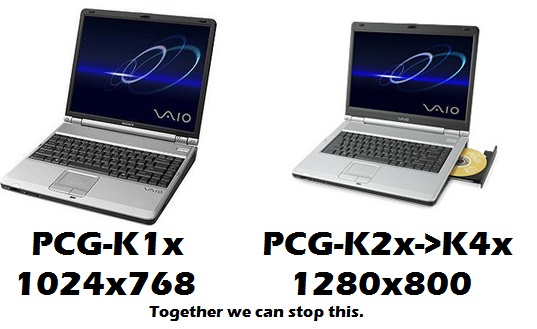
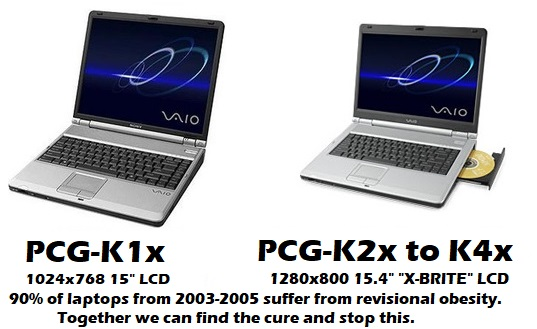
kseries update

diff --git a/docs/pcgk.html b/docs/pcgk.html
@@ -16,7 +16,7 @@
 <h5 id="randomWord"></h5>
 </div>
 <script>
-const myList = ["americans don't get dGPUs lol xddd", "allergic to high uptimes", "portable jet engine!", "infineon advertised their ram", "i spilled water on one as a kid"];
+const myList = ["americans don't get dGPUs lol xddd", "heater but weaker", "portable jet engine!", "infineon advertised their ram", "i spilled water on one as a kid"];
 
 randomizeFunction()
 
@@ -35,37 +35,43 @@ function randomizeFunction() {
 
 <div id="content">
 <h2 style="font-size:300%">Sony VAIO PCG-Kxx Owner's Guide</h2>
-<p class="intro"><i>Originally written February 15, 2022. Revised August 23, 2022.</i></p>
+<h2>An amazing screen but a not-so-amazing execution of hardware design.</h2>
+<p class="intro"><i>Originally written February 15, 2022. Revised September 13, 2023.</i></p>
 <p class="intro"></p>
       <h2>Overview of the hardware</h2>
-      <p>The Sony VAIO PCG-K series laptops (K1x, K2x, K3x, K4x, etc etc) are a series of 15-inch ""desktop replacement"" laptops with Intel Pentium 4 processors (some use the """"MOBILE"""" Pentium 4 chips from 2004), ATI Radeon IGP 345M graphics (select non-US models have been seen with Radeon 9200 cards), 266MHz DDR SDRAM, and Windows XP Home Edition with Service Pack 1a or Service Pack 2. These weren't exactly popular as sony was known for lightweight "ultra-portable" laptops, but Dell, HP, and IBM were way ahead of the market. However, they provided good portability (in some aspects...) and were fairly quick for the time, despite later falling behind the Athlon 64 mobile chips.</p>
-	  <p>There are 4 different models of these laptops. The PCG-K1x series has a 4:3 15-inch display running at 1024x768 while the K2x-K4x laptops have a 16:10 15-inch display running at 1280x800. The PCG-K3x series added improved cooling for Prescott CPUs, and the PCG-K4x was more of a refinement. Yes, there is not much variety, but there are definitely some notable internal differences.</p>
-	  <p><img alt="Some say it became American."
-	  title="Some say it became American."
+      <p>The Sony VAIO PCG-K series laptops (K1x, K2x, K3x, K4x, etc etc) are a series of entry-level (yes, they were literally advertised as such) 15-inch "Desktop Replacement" laptops with Intel Pentium 4 processors (some use the "Mobile" Pentium 4 chips, not to be confused with the older Pentium 4-M), ATI Radeon IGP 345M graphics (select models have a populated dGPU which is the ATI Mobility Radeon 9200, unfortunately those were only sold in Europe and Australia for whatever reason), 266MHz DDR SDRAM, and were bundled Windows XP Home Edition with Service Pack 1a or Service Pack 2. Hard Drive capacities ranged from 40GB to 80GB, and can be upgraded to larger drives, even those above 128GB. These weren't exactly popular as sony was known for lightweight "ultra-portable" laptops, but they were popular with those who wanted a new laptop to replace, say, their aging Dell Inspiron 7000 or Sony VAIO PCG-F to name a couple of older examples. The issue, however, was that Sony opted for the aging RS200M platform for these laptops which made them look rather pathetic in comparison to offerings from HP, IBM, Acer, and Dell to name a few. They were about as portable as their offerings but were inefficient and felt slow compared to a system like the Pavilion zv5000/zx5000 which had a more up-to-date chipset and supported hyperthreading. More on the issues with the K series later, but now you've got an idea of what these were like.</p>
+	  <p>There are 4 different models of these laptops. The PCG-K1x series has a 4:3 15-inch display running at 1024x768 while the K2x-K4x laptops have a 16:10 15-inch "X-BRITE" display running at 1280x800 (X-BRITE was sony's display technology that made pictures look more vibrant and color-accurate compared to leading LCDs on other consumer laptops, so much so they made a screensaver about it). The PCG-K3x series added improved cooling for Prescott CPUs (which honestly was a bad idea considering the fact the RS200M poorly handles prescott), and the PCG-K4x was more of a refinement. Yes, there is not much variety, but there are definitely some notable internal differences especially comparing the K1-K2 to the K3-K4.</p>
+	  <p><img alt="90% of laptops designed in the early-mid 2000s suffer from obesity."
+	  title="90% of laptops designed in the early-mid 2000s suffer from obesity."
 	  src="pictures/compare-kseries.jpg"></p>
-	  <p>These laptops were part of the great Pentium 4 Mobile Computing fad of the early 2000s, and thus it was more of a one-off system. Most of the Northwood models were reliable, but later models were prone to failure, despite Sony's brilliant japanese engineering at the time. Most of this was Intel's stupid fault with their Prescott chips aiming for serious scaling. Unfortunately, that ended in 3.8GHz tops.</p>
-	  <h2>Flaws of the system</h2>
-      <p>Like with any Pentium 4 laptop from the mid-2000s, you WILL run into issues down the road. The PCG-K series laptops were somewhat more basic than competing offers as it had a Radeon IGP chip. However, pretty much all Pentium 4 laptops (and even desktops) will run into VRM failure if a poor design is implemented. This is seen commonly if you have a PCG-K3x or K4x laptop; they all use Prescott CPUs with the exception of the PCG-K33. I had a PCG-K37 which randomly shut off, and sometimes it wouldn't even have the necessary voltage to detect the hard drive. Those processors suck up so much energy!</p>
-	  <p>Honestly, the PCG-K series laptops don't exactly suffer from poor design. Rather, they suffer from poor execution. These laptops just had to use the <i>wrong</i> chipset. Competing laptops like the Inspiron 5150/5160 used an Intel Springdale chipset, while these used a rather outdated and inadequate ATI RS200M chipset. You can install 2GB of RAM in a 5150, but not in a PCG-K laptop. You can enable HT on a 5150, but not on a PCG-K laptop. Only the K3x and K4x laptops have a CPU with HT, but the computer itself will not allow for HT to work. The IGP 345M and RS200M do not support HT and are pretty much remnants of a Pentium 4-M chipset from 2002. I will admit, systems with the ATI chipset are known to be more stable, but they have some serious limitations. Sony used the wrong chipset at the wrong time for this laptop. But that might just be why it's more reliable than most other P4 laptops, <i>especially the Inspiron 5150.</i></p>
-	  <p>These laptops also suffer from Sony's ignorance with updating their drivers and BIOS images. Luckily, the PCG-K47 BIOS has been known to work, and can be found on my Files page under R0108X3. This fixes many issues which were BIOS-related, especially the issue with "Operating system not found" on select PCG-K3x models.</p>
-	  <h2>BIOS updates</h2>
-	  <p>I cannot stress but recommend you to install <b>R0108X3</b> from my website. It works on the K-series VAIOs with the IGP 345M chipset, so pretty much every one of them. It irons out the many software issues these have, especially if you end up with the "Operating system not found" error on select models.</p>
+	  <h2>The oddities of being an "entry-level" desktop replacement</h2>
+	  <p>These laptops were part of the great Pentium 4 Mobile Computing fad of the early 2000s, and thus it was more of a one-off system even though it lasted well into 2005 with the K4x revision. During that time, manufacturers and engineers around would just throw stuff at the wall and used what stuck. These laptops were unfortunately hindered by the aforementioned ATi RS200M chipset, which is especially seen in the PCG-K3x and K4x models. The chipset only supported CPUs with a 533MHz front side bus, the integrated graphics were hot garbage (IGP 340M, more specifically the 345M which is identical), there was no hyper-threading support, and the maximum RAM was only 1GB. These may not sound so bad especially considering this is a laptop from 2004, but when you look at other options, it becomes clear. The Dell Inspiron 1100, while the iGPU on that was no better, had the Intel 845GL chipset paired with DDR SDRAM and could happily support up to 2GB of RAM.</p>
+	  <p>The PCG-K series models were usually priced between $1,000 and $2,000 depending on the configuration. While I was unable to find all of the MSRPs, I can tell the PCG-K33 was originally priced at $1,350 according to an Amazon review from the time. Compared to something like the Pavilion zv5000, which started at $1,200 for the base model, this was not a great deal. The VAIO did have brand recognition on its sleeve, but unfortunately looking deeper into reviews for this machine, it becomes clear that there was a painful drop in quality. Some of that is attributed to the mentality of owning a desktop replacement as people were not exactly aware of the higher power usage of these machines and just treated them as if they were typical laptops with laptop CPUs... when they really weren't.</p>
+	  <p>If you look at more systems from the early 2000s using the Pentium 4 CPU, you will probably see how the PCG-K line is essentially just a budget desktop with laptop components duct-taped to it. Cheap $300-500 desktops from Dell and HP were about the same as this laptop in terms of their performance. With the 3 and 4 models, things REALLY got unbelievably stupid when Sony used Mobile P4HT (yes, the HT versions) processors in these machines that didn't even support HT whatsoever! This combined with the poor design of the Prescott microarchitecture led to high power consumption and premature failure. Sony using a P4HT in a system that doesn't even support HT is like throwing in a V8 into a Honda Pilot albeit (somehow) with 2 cylinders inactive. It's inefficient and a <i>terrible</i> way to utilize something that's more capable than the limits that are imposed upon it. What's even more ridiculous is that Sony and Quanta took the time to re-design the motherboard for the newer K models but used the EXACT SAME chipset. I understand the budget was probably not that high for that machine (though I will say it's built rather well for a laptop from 2004), but honestly to me that is a waste of R&D that should have been put towards making a redesigned motherboard that supports newer technologies.</p>
+	  <h2>Known flaws and observations</h2>
+      <p>Like with any Pentium 4 laptop from the early to mid 2000s, you WILL run into issues down the road. The PCG-K series laptops were somewhat more basic than competing offers as it had a (terribly outdated for 2004) Radeon IGP chip. However, pretty much all Pentium 4 laptops (and even desktops) will run into VRM failure if a poor design is implemented. This is seen commonly if you have a PCG-K3x or K4x laptop, but the CPUs that Sony LITERALLY USED BY DEFAULT in those machines are to blame for sure. Those processors suck up so much energy! I have also seen this on a PCG-K315Z motherboard I imported from the UK, which shut off under load. The fix? Use a Northwood CPU. Upon testing it with Windows Vista (yes, Vista, it was more than intensive enough to get the CPU at 100% on startup), it was perfectly stable. I call this symptom of random shutdowns "Prescott K-series Sudden Shutdown Syndrome" or for short, PKSSS. This is not caused by the battery/AC to DC board as I have observed along with other people who worked on these laptops, and is not caused with overheating if the problem persists after cleaning the fans out and changing the thermal paste (Prescotts have a soldered IHS so it definitely isn't the TIM used between the die and the IHS). I'm not exactly sure what the root cause of my so-called PKSSS is but it's likely the additional circuitry on newer K-series models that accomodates for the higher power requirements of the Prescott P4. Apparently, that still isn't enough so it's best to run a Northwood with this computer. This also happens after a while if you use a Prescott CPU on a K1x or K2x model (which I don't recommend because of the 75W TDP limit as per the schematics for MBX-114).</p>
+	  <p>Also, prescott bad. Really bad. Intel really thought a 31 stage instruction pipeline could provide higher performance but in reality it was slower clock-for-clock than Northwood and absolutely needed HT to show any improvements on some setups. SSE3 doesn't really provide improvements on a K series laptop either because you're already so limited by the IGP and the chipset to a point where it's not worth using newer software on that system.</p>
+	  <h3><b>Looks can be deceiving: "Gray Tantalums" are not what you think</b></h3>
+	  <p>These being Sony VAIOs, are unsurprisingly a pain in the ASS to repair when something goes wrong. Some K3x machines will outright stop detecting HDDs (R0108X3 seems to fix that though). I've also seen people alluding to the symptoms that I have determined with my PKSSS observation, and while I mentioned I have not found a root cause, it's possible that capacitors on these laptops could be replaced. A handful of capacitors used on K series motherboards look like they are tantalums but do NOT be fooled; These aren't tantalum capacitors but a weird polymer/electrolytic surface mount capacitor type </b>that uses the same kind of pos/neg leads as a tantalum</b> to provide enough throughput to store energy that a normal aluminum SMD capacitor can't do, but likely need the characteristics of an electrolytic capacitor. Electrolytics are usually preferred for smoother power filtering and from my understanding you can't find that with typical yellow/solid tantalum capacitors. This is also a reason why some recapping jobs still rely on electrolytic or polymer capacitors, especially with my Console5 kits I bought for my old consoles that still use those. They are cheaper but also provide the best functionality by design if the application of that capacitor requires it to be electrolytic. Not all of the capacitors on that board are solid tantalum caps but that is for good reason considering the need for smoother filtering to my understanding. I might be wrong about how these capacitors work, but I've seen multiple cases of people not just mindlessly replacing electrolytic capacitors with solid-state tantalums. It may work on some boards (like old Macintosh boards) but you'd ideally want to replace the original capacitors with the same type unless it has been tried and true that other types can be used.</p>
+	  <p>I'd also like to mention that the vcore 470uf capacitors usually don't fail as they are tantalums but if your machine does not power on it is likely that one of those capacitors would be causing a short (or one of the many MLCCs, and in that case if you don't know how to do microsoldering, you're fucked.) The PCG-K series produces a LOT of heat (especially on 3 and 4 systems with prescott CPUs) so it's likely that the system has caps that just ran dry. Ideally for no-power issues you should replace the motherboard but if you don't have any other option you could repair the board.</p> 
+	  <h2>BIOS updates (also other information about CPUs)</h2>
+	  <p>I cannot stress but recommend you to install <b>R0108X3</b> from my website. It works on all K-series models and provides fixes for BIOS-related glitches/bugs, especially the issue relating to some PCG-K3x models returning "Operating system not found". It will also allow you to install Prescott CPUs into PCG-K1x and PCG-K2x models, but <b>I do not recommend doing this as the motherboards used in those laptops are designed for up to a 75W TDP, and prescott chips go over that limit enough to a point where it will cause stability and shutdown problems.</b> Either way, you can still run Northwood CPUs with this BIOS and on some models it will help detect the Mobile Northwood CPUs. I am not quite sure if the PCG-K1 and K2 models have the DT/Mobile switch like the PCG-FRV, but it does use the same motherboard (MBX-114).</p>
+	  <p>The PCG-FRV series is similar but this will NOT work. WinPhlash will automatically prevent you from flashing a K-series BIOS due to a motherboard/platform revision mismatch between FRV models and K models. MBX-114 is used in both models seemingly but I am sure the arrangement has changed; I noticed the FRV series in particular have PLCC socketed BIOS chips and K series boards seem to have them soldered directly to the board.
       <h2>Maintenance level</h2>
-      <p>Honestly, there isn't much to do from frequent maintenance of the cooling fans to dust them out, and to use high-quality thermal paste instead of the factory application. If you have upgraded your K-series with a Prescott CPU (requires R0108X3, testers wanted for other laptop models!!), you would definitely keep those in mind. The fans get <i>super</i> loud when you upgrade your processor to a Prescott CPU (ex. Mobile Pentium 4 538) and that is an indicator they are working harder to push cool air through the heatsink. It's not a general recommendation to install a Prescott CPU in a PCG-K33 or earlier, as the motherboards weren't exactly designed for it. I have installed a Prescott into my K23 and it works fine, but is missing some of the essential cooling.</p>
+      <p>Honestly, there isn't much to do from frequent maintenance of the cooling fans to dust them out, and to use high-quality thermal paste instead of the factory application. If you have upgraded your K-series with a Prescott CPU (requires R0108X3, works on all K models), you should maintain it more frequently if you use the machine more often. The fans get <i>super</i> loud when you upgrade your processor to a Prescott CPU (ex. Mobile Pentium 4 538) and that is an indicator they are working harder to exhaust the heat out while also pulling fresh air in. It's not a general recommendation to install a Prescott CPU in a PCG-K2x or earlier, as the motherboards weren't exactly designed for it; the K3x and later have a slightly different heatsink that accomodates for the extra heat output of the Prescott P4. I did have a Prescott in my K23 but I switched it back to a northwood to prevent any further issues. I also have a PCG-K33 but the PCMCIA door is missing, so I noticed the fans also managed to pull air in from the normally closed PCMCIA plastic door that wasn't there on mine. Perhaps if you wanted to slightly improve airflow, you could remove the small door on your PCMCIA slot.</p>
       <h2>Processor upgrades</h2>
-      <p>You can install a Pentium 4 chip from the Northwood era, and the best one is the <b>Intel Pentium 4 2.8C without hyperthreading.</b> As for prescott CPUs, you can install <b>any Mobile Pentium 4 chip.</b></p>
-	  <p>I would recommend the <b>Mobile Pentium 4 538</b> for a prescott chip. However, expect EVERYONE to notice you as your laptop gets ready for takeoff. As much as it sounds like a magnet to men or women, it's moreso a <i>repellent.</i> Trust me, I brought this one to my High School a while back and I could always hear someone complimenting how loud my laptop was. For northwoods (and for better temps and quieter fans), the <b>Pentium 4 3.06</b> is a good chip. Mobile northwoods with any BIOS are known to have some form of issues.</p>
-      <h2>Storage, RAM, Power, and Wi-Fi</h2>
-      <p>For a storage drive, I would recommend an <b>mSATA to 44-pin IDE adapter</b> with a <b>Samsung PM871 mSATA SSD of any capacity.</b></p>
-	  <p>The max RAM for all K-series laptops is <b>1GB.</b> Some RAM is used for video memory because of the ATI Radeon IGP.</p>
-	  <p>I recommend the <b>Mini-PCI Atheros AR5008 Wireless-N card.</b> There is no known whitelist on the K-series laptops.</p> 
-	  <p>Find a <b>120W 19.5V Sony charger.</b> The batteries these laptops use have the P/N <b>PCGA-BP2NX.</b> However, you might want to steer clear of OEM batteries; <b>Sony cells were recalled in 2006.</b></p> 
+	  <p>I would recommend the <b>Mobile Pentium 4 3.06</b> or the <b>Pentium 4 2.8/533</b> and both of which should be on the Northwood core; this is easily seen if your CPU has 512KB of L2 cache. Installing a prescott CPU can be done but it will cause problems, and it is not worth using on the poorly aged platform this laptop uses. The K series already come with fast CPUs for their time, but the K3 and K4 laptops should have Northwood CPUs installed to reduce the risk of the sudden shutdown issue I talked about earlier.</p>
+	  <p>You can delid most Northwood P4s that fit my criteria. However, if you know you've cut the glue under the IHS all the way and don't feel it easily coming off... <b>STOP!</b> You have a soldered IHS and you should continue with installing the CPU with fresh thermal paste (I recommend Arctic MX4; the K series laptops dry out paste so much to a point where it will be a bitch to remove, and MX4 thankfully prevents that from happening unlike with generic silicone based thermal paste ESPECIALLY that cheap stuff on eBay). Why should you delid? It will significantly improve temps on chips that don't use soldered IHSes, so basically 95% of P4s under a rated 70W TDP if I'm correct.</p>
+      <h2>Storage, RAM, and Charger/Battery options</h2>
+      <p>For a storage drive, I would recommend an <b>mSATA to 44-pin IDE adapter</b> with a <b>reputable mSATA SSD of any capacity.</b> You could rely on ye olde spinnin' rust but those IDE laptop drives are SLOW.</p>
+	  <p>The max RAM for all K-series laptops is <b>1GB</b> and it should be the PC2100 standard. You can use faster RAM but it would still run at 266MHz (literally PC133 but with double data rate technology) due to the RS200M's RAM speed limitation. Some RAM is used for video memory because of the ATI Radeon IGP, which can be adjusted from 8MB to 128MB; personally a good middle ground is 64MB but 32MB is also ideal considering the card in that machine is essentially equivalent to a Radeon 7000. Your K-series laptop should come with at least 512MB of RAM, unless a previous owner removed it for whatever reason.</p> 
+	  <p>Find a <b>150W 19.5V Sony charger.</b> The batteries these laptops use have the P/N <b>PCGA-BP2NY.</b> However, you might want to steer clear of OEM batteries; <b>Sony cells were recalled in 2006.</b></p> 
       <h2>Operating system</h2>
-	  <p>This isn't like the zd8000 where you could just run several generations of software. In hindsight with a prescott CPU, you could install Windows 8 or 8.1, but since the BIOS is so locked down with capabilities, <b>that may not work at all.</b> I would recommend installing <b>Windows 2000 or Windows XP.</b></p>
-	  <p>There used to be a good amount of support for old Radeon 7000 cards on a GNU+Linux distribution, but unfortunately pretty much all modern kernels do not provide adequate support to run such an ancient framebuffer.</p>
+	  <p>Windows 2000 and XP are good options, though 2000 does have issues with suspend in my experience where the system won't wake up for whatever reason. I'm not sure if a fix for this exists but I have also seen it on another RS200M-based laptop. Windows 9x may also work but I have not tested it, though it would be an interesting use case for such a machine. I would personally see the PCG-K1x being a nice Windows 98SE (also ME if you know what you're doing..) machine. They use a 4:3 screen and can go up to 1024x768 as needed. I believe I did try it on a K23 but I could only get it up to 1280x768 and not 1280x800 for whatever reason.</p>
+	  <p>There used to be a good amount of support for old R100/R200 cards (including the RS200M which is very close to an ATi Radeon 7000) on a GNU+Linux distribution, but unfortunately pretty much all modern kernels do not provide adequate support to run such an ancient framebuffer.</p>
 	  <p>As far as I'm aware, hackintosh distros or vanilla setups outright won't work.</p>
       <h2>Conclusion</h2>
-	  <p>The Sony VAIO PCG-K series laptops have to be the more "to-the-point" Pentium 4 laptops of the era, but they weren't of much interest either. With okay processors and paltry graphics options, it did not attract most buyers. But for those who for some reason wanted a Pentium 4 laptop that was somewhat reliable, they usually opted for the VAIO. It's an interesting laptop in the sense that it was like an example of a more low-end Pentium 4 powered laptop. As we all know, these proof of concept systems that were made throughout the early-mid 2000s by various manufacturers ended in sheer disaster. Overheating, impracticality, bulkiness, and pretty much little to no market adoption. Apple could have done a PowerBook G5 with a much thicker body, but was it going to be something that most people would buy? Absolutely not. The Sony VAIO PCG-K series laptops have their place as some of the least interesting Pentium 4-based laptops of the time. As with most companies that made Pentium 4 laptops, they just gave up and moved on to the Pentium M and Intel Core series chips.... except for one company that wasn't "clevo" at the time about it.</p>
+	  <p>The Sony VAIO PCG-K series laptops have to be the more "to-the-point" Pentium 4 laptops of the era, but they weren't of much interest either. With okay processors and paltry graphics options (except if you lived in Europe or Australia, because you could have a Radeon 9200 version of this...), it did not attract most buyers. But for those who for some reason wanted a Pentium 4 laptop that was somewhat reliable, they usually opted for the VAIO. It's an interesting laptop in the sense that it was like an example of a more low-end Pentium 4 powered laptop. As we all know, these "Desktop Replacement" Pentium 4 Laptop systems that were made throughout the early-mid 2000s by various manufacturers ended in sheer disaster. Overheating, impracticality, bulkiness, and pretty much little to no market adoption. Apple could have done a PowerBook G5 with a much thicker body, but was it going to be something that most people would buy? Absolutely not. The Sony VAIO PCG-K series laptops have their place as some of the least interesting Pentium 4-based laptops of the time, aside from the X-BRITE screens which you can always just throw into another machine; I had one from a dead PCG-K37 and used it in a Toshiba Satellite P15. As with most companies that made Pentium 4 laptops, they just gave up and moved on to the Pentium M and Intel Core series chips, and the mobile Core 2s absolutely <i>wiped the floor</i> with the full desktop Pentium 4 chips. I worked with some of the VGN-FS/FE Pentium M/Core Duo models and they are miles faster than a PCG-K while consuming a fraction of the power and weighing about half of the PCG-K.</p>
 </div>
 <div id="footer">
 <h2 class="hide">Site info</h2>
